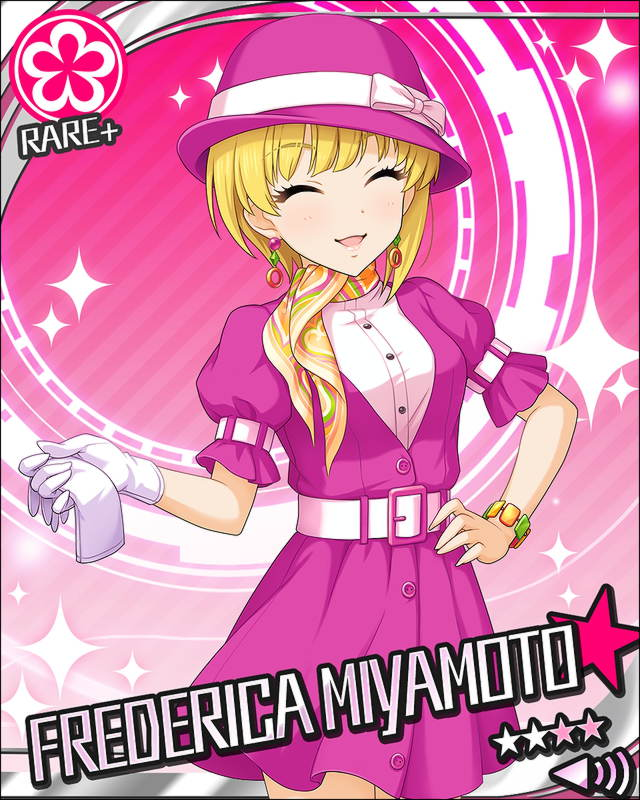
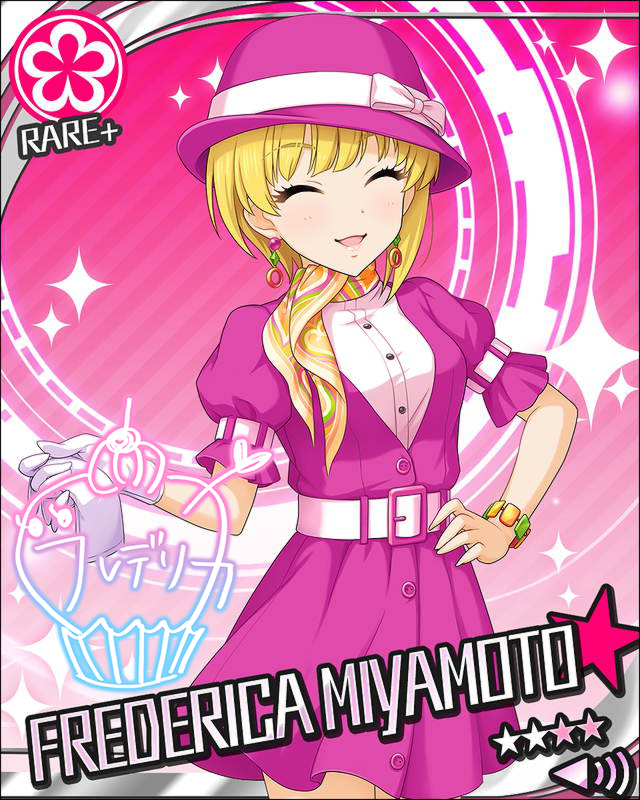
레어 키라 테스트

Changed region(s): [[0.0, 0.5, 0.4375, 0.875], [0.4688, 0.4688, 0.5, 0.5]]

diff --git a/idol/cute/frederica/index.html b/idol/cute/frederica/index.html
@@ -1503,8 +1503,8 @@
                         "is_trade_limit": false
                     },
                     "idol_search_param": "keyword=%E3%81%BF%E3%82%84%E3%82%82%E3%81%A8%E3%81%B5%E3%82%8C%E3%81%A7%E3%82%8A%E3%81%8B",
-                    "premium_sign_idol_base_id": "1546002",
-                    "js_premium_sign": "../../../12008305/js/cjs/premium/sign_effect_1546002.js", // 레어 키라 테스트
+                    "premium_sign_idol_base_id": "31",
+                    "js_premium_sign": "../../../12008305/js/cjs/premium/sign_effect_31.js", // 레어 키라 테스트
                     "archive": {
                         "normal": "1",
                         "premium": "1"
